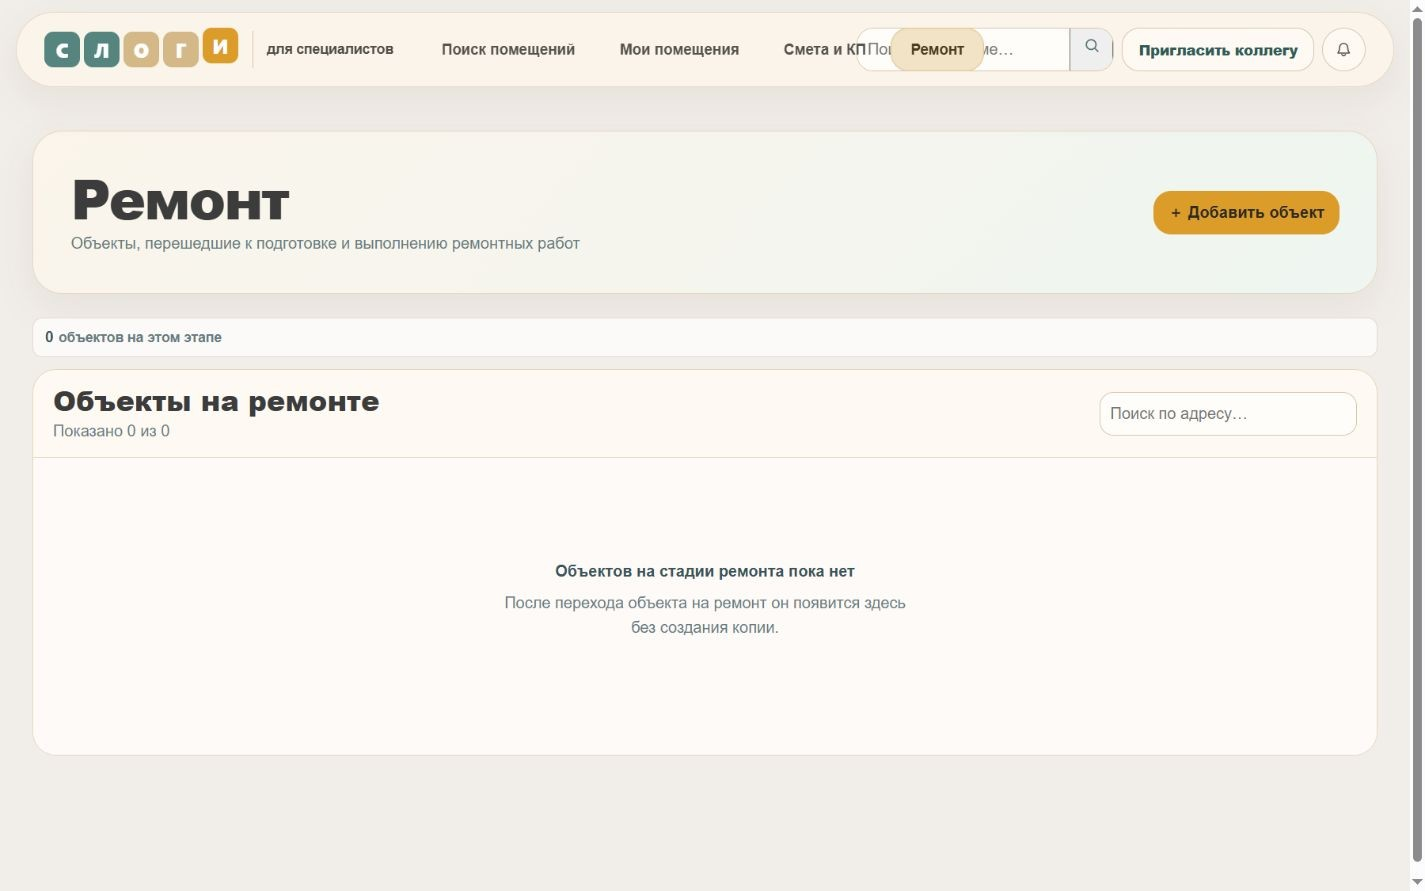
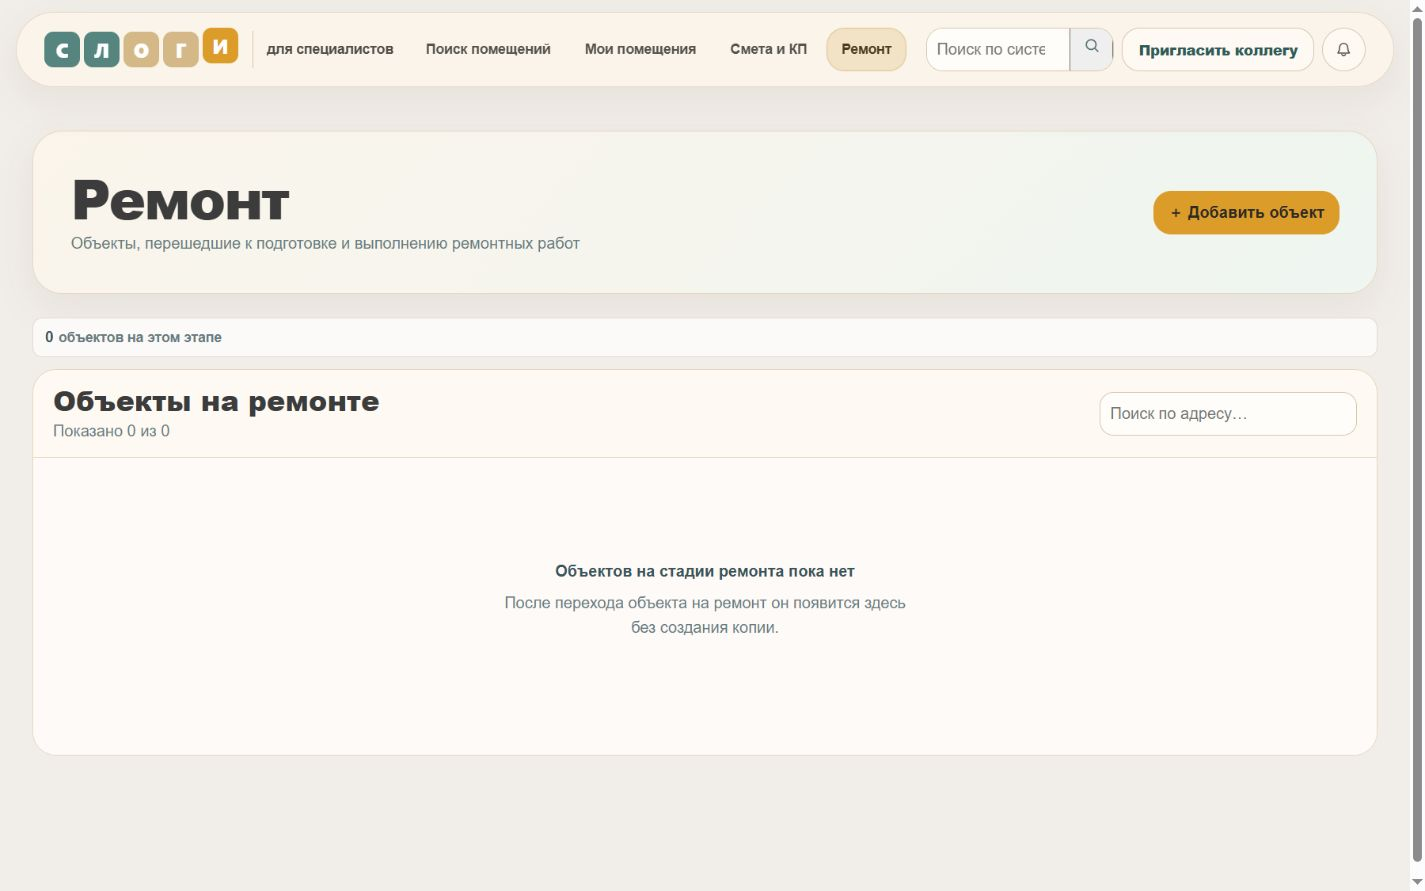
fix: center shared header navigation

Changed region(s): [[0.3088, 0.0303, 0.7411, 0.0909]]

diff --git a/proposal.html b/proposal.html
@@ -1,6 +1,6 @@
 <!DOCTYPE html>
 <html lang="ru"><head><meta charset="utf-8"/><meta content="width=device-width,initial-scale=1" name="viewport"/><meta content="no-cache,no-store,must-revalidate" http-equiv="Cache-Control"/><title>СЛОГИ — Объект · Коммерческое предложение</title><link href="favicon.svg?v=31" rel="icon"/><link href="professional-ui.css?v=31" rel="stylesheet"/><link href="app-shell.css?v=50" rel="stylesheet"/>
-  <link href="layout-v76-1-1.css?v=7611" rel="stylesheet"/><link href="workflow-pages.css?v=31" rel="stylesheet"/><link href="objects-visual-standard.css?v=33" rel="stylesheet"/><link href="layout-fixed-header.css?v=33" rel="stylesheet"/><link href="schoolslogi-theme-v76-1-5.css?v=7615" rel="stylesheet"/></head><body>
+  <link href="layout-v76-1-1.css?v=7611" rel="stylesheet"/><link href="workflow-pages.css?v=31" rel="stylesheet"/><link href="objects-visual-standard.css?v=33" rel="stylesheet"/><link href="layout-fixed-header.css?v=33" rel="stylesheet"/><link href="schoolslogi-theme-v76-1-5.css?v=76152" rel="stylesheet"/></head><body>
 <header class="site-header"><div class="top"><div class="brand"><a class="logo-link" href="index.html"><div class="logo-word"><span>С</span><span>Л</span><span>О</span><span>Г</span><span>И</span></div></a><div class="title-wrap"><h1>Объект · Коммерческое предложение</h1><div class="subtitle">Редактирование и выгрузка по фирменному шаблону</div></div></div></div></header>
 <main class="workflow-main"><div class="workflow-hero"><div><h2>Редактор коммерческого предложения</h2><p>Данные объекта и сроки подставляются автоматически. Любой текст в двухстраничном документе можно изменить непосредственно в предпросмотре.</p></div><div class="flow-steps"><span class="flow-step done">1 · Спецификация</span><span class="flow-arrow">→</span><span class="flow-step done">2 · Смета</span><span class="flow-arrow">→</span><span class="flow-step active">3 · КП</span></div></div>
 <section class="object-strip" id="object-strip"></section><div class="notice bad" hidden="" id="outdated-banner">После формирования КП смета была изменена. Обновите документ из актуальных данных объекта.</div><div style="height:15px"></div>

diff --git a/specification.html b/specification.html
@@ -1,6 +1,6 @@
 <!DOCTYPE html>
 <html lang="ru"><head><meta charset="utf-8"/><meta content="width=device-width,initial-scale=1" name="viewport"/><meta content="no-cache,no-store,must-revalidate" http-equiv="Cache-Control"/><title>СЛОГИ — Объект · Смета</title><link href="favicon.svg?v=31" rel="icon"/><link href="professional-ui.css?v=31" rel="stylesheet"/><link href="app-shell.css?v=50" rel="stylesheet"/>
-  <link href="layout-v76-1-1.css?v=7611" rel="stylesheet"/><link href="workflow-pages.css?v=31" rel="stylesheet"/><link href="objects-visual-standard.css?v=33" rel="stylesheet"/><link href="layout-fixed-header.css?v=33" rel="stylesheet"/><link href="schoolslogi-theme-v76-1-5.css?v=7615" rel="stylesheet"/></head><body>
+  <link href="layout-v76-1-1.css?v=7611" rel="stylesheet"/><link href="workflow-pages.css?v=31" rel="stylesheet"/><link href="objects-visual-standard.css?v=33" rel="stylesheet"/><link href="layout-fixed-header.css?v=33" rel="stylesheet"/><link href="schoolslogi-theme-v76-1-5.css?v=76152" rel="stylesheet"/></head><body>
 <header class="site-header"><div class="top"><div class="brand"><a class="logo-link" href="index.html"><div class="logo-word"><span>С</span><span>Л</span><span>О</span><span>Г</span><span>И</span></div></a><div class="title-wrap"><h1>Объект · Смета</h1><div class="subtitle">Расчёт по подтверждённой спецификации</div></div></div></div></header>
 <main class="workflow-main"><div class="workflow-hero"><div><h2>Редактор сметы</h2><p>Смета формируется из сохранённой спецификации. Все позиции, цены, количества и итоговые суммы можно изменить.</p></div><div class="flow-steps"><span class="flow-step done">1 · Спецификация</span><span class="flow-arrow">→</span><span class="flow-step active">2 · Смета</span><span class="flow-arrow">→</span><span class="flow-step">3 · КП</span></div></div>
 <section class="object-strip" id="object-strip"></section><div class="notice bad" hidden="" id="outdated-banner">Спецификация была изменена после создания этой сметы. Нажмите «Обновить из спецификации», чтобы использовать актуальные позиции.</div><div style="height:15px"></div>

diff --git a/schoolslogi-theme-v76-1-5.css b/schoolslogi-theme-v76-1-5.css
@@ -74,7 +74,7 @@ body.slogi-search-page>.site-header,
   min-height:100%!important;
   max-height:100%!important;
   align-items:center!important;
-  gap:clamp(16px,2vw,30px)!important;
+  gap:clamp(12px,1.25vw,18px)!important;
   padding:0 clamp(16px,2vw,28px)!important;
 }
 .site-header .brand{
@@ -134,7 +134,8 @@ body.slogi-search-page>.site-header,
   box-shadow:none!important;
 }
 .site-header .pro-nav-inner,
-.slogi-search-page .site-header .pro-nav .pro-nav-inner{
+.slogi-search-page .site-header .pro-nav .pro-nav-inner,
+.slogi-search-page .site-header .top>.pro-nav .pro-nav-inner{
   display:flex!important;
   width:100%!important;
   height:100%!important;
@@ -143,7 +144,17 @@ body.slogi-search-page>.site-header,
   padding:0!important;
   overflow:visible!important;
 }
-.pro-product-nav{display:flex!important;align-items:center!important;gap:5px!important}
+.site-header .pro-product-nav,
+.slogi-search-page .site-header .pro-product-nav{
+  display:flex!important;
+  height:100%!important;
+  min-height:0!important;
+  align-items:center!important;
+  align-self:center!important;
+  gap:5px!important;
+  margin:0!important;
+  transform:none!important;
+}
 .site-header .pro-product-nav a,
 .slogi-search-page .site-header .pro-product-nav a{
   display:inline-flex!important;
@@ -151,12 +162,12 @@ body.slogi-search-page>.site-header,
   height:44px!important;
   align-items:center!important;
   justify-content:center!important;
-  padding:0 clamp(12px,1.35vw,20px)!important;
+  padding:0 clamp(10px,1vw,14px)!important;
   border:1px solid transparent!important;
   border-radius:18px!important;
   background:transparent!important;
   color:#57534e!important;
-  font-size:15px!important;
+  font-size:14px!important;
   font-weight:750!important;
   line-height:1.15!important;
   text-decoration:none!important;
@@ -186,9 +197,11 @@ body.slogi-search-page>.site-header,
 }
 .pro-header-utilities .pro-global-search-wrap{
   display:flex!important;
+  flex:0 1 190px!important;
+  width:190px!important;
   height:44px!important;
-  min-width:190px!important;
-  max-width:270px!important;
+  min-width:180px!important;
+  max-width:190px!important;
   border:1px solid #d8c7af!important;
   border-radius:17px!important;
   background:#fffaf3!important;

diff --git a/source-specification.html b/source-specification.html
@@ -1,6 +1,6 @@
 <!DOCTYPE html>
 <html lang="ru"><head><meta charset="utf-8"/><meta content="width=device-width,initial-scale=1" name="viewport"/><meta content="no-cache,no-store,must-revalidate" http-equiv="Cache-Control"/><title>СЛОГИ — Объект · Расчётная спецификация</title><link href="favicon.svg?v=31" rel="icon"/><link href="professional-ui.css?v=31" rel="stylesheet"/><link href="app-shell.css?v=50" rel="stylesheet"/>
-  <link href="layout-v76-1-1.css?v=7611" rel="stylesheet"/><link href="workflow-pages.css?v=31" rel="stylesheet"/><link href="objects-visual-standard.css?v=33" rel="stylesheet"/><link href="layout-fixed-header.css?v=33" rel="stylesheet"/><link href="schoolslogi-theme-v76-1-5.css?v=7615" rel="stylesheet"/></head><body>
+  <link href="layout-v76-1-1.css?v=7611" rel="stylesheet"/><link href="workflow-pages.css?v=31" rel="stylesheet"/><link href="objects-visual-standard.css?v=33" rel="stylesheet"/><link href="layout-fixed-header.css?v=33" rel="stylesheet"/><link href="schoolslogi-theme-v76-1-5.css?v=76152" rel="stylesheet"/></head><body>
 <header class="site-header"><div class="top"><div class="brand"><a class="logo-link" href="index.html"><div class="logo-word"><span>С</span><span>Л</span><span>О</span><span>Г</span><span>И</span></div></a><div class="title-wrap"><h1>Объект · Расчётная спецификация</h1><div class="subtitle">Исходные позиции для точной сметы</div></div></div></div></header>
 <main class="workflow-main"><div class="workflow-hero"><div><h2>Редактор расчётной спецификации</h2><p>Исходный Excel сохраняется без изменений. Распознанные позиции можно проверить, исправить и скачать отдельным редактируемым файлом.</p></div><div class="flow-steps"><span class="flow-step active">1 · Расчётная спецификация</span><span class="flow-arrow">→</span><span class="flow-step">2 · Смета</span><span class="flow-arrow">→</span><span class="flow-step">3 · КП</span></div></div>
 <section class="object-strip" id="object-strip"></section>

diff --git a/passport.html b/passport.html
@@ -12,7 +12,7 @@
   <link href="layout-v76-1-1.css?v=7611" rel="stylesheet"/>
 <link href="workflow-pages.css?v=31" rel="stylesheet"/>
 <link href="passport-v4.css?v=7615" rel="stylesheet"/>
-<link href="objects-visual-standard.css?v=33" rel="stylesheet"/><link href="layout-fixed-header.css?v=33" rel="stylesheet"/><link href="schoolslogi-theme-v76-1-5.css?v=7615" rel="stylesheet"/></head>
+<link href="objects-visual-standard.css?v=33" rel="stylesheet"/><link href="layout-fixed-header.css?v=33" rel="stylesheet"/><link href="schoolslogi-theme-v76-1-5.css?v=76152" rel="stylesheet"/></head>
 <body>
 <header class="site-header"><div class="top"><div class="brand"><a class="logo-link" href="index.html"><div class="logo-word"><span>С</span><span>Л</span><span>О</span><span>Г</span><span>И</span></div></a><div class="title-wrap"><h1>Рабочее пространство объекта</h1><div class="subtitle">Обзор, этапы, документы, сроки и финансы</div></div></div></div></header>
 <main class="passport-main">

diff --git a/workspace.html b/workspace.html
@@ -12,7 +12,7 @@
   <link href="objects-visual-standard.css?v=33" rel="stylesheet"/>
   <link href="layout-fixed-header.css?v=33" rel="stylesheet"/>
   <link href="stage-workspace.css?v=48" rel="stylesheet"/>
-<link href="schoolslogi-theme-v76-1-5.css?v=7615" rel="stylesheet"/></head>
+<link href="schoolslogi-theme-v76-1-5.css?v=76152" rel="stylesheet"/></head>
 <body>
 <header class="site-header"><div class="top"><div class="brand"><a class="logo-link" href="index.html" aria-label="СЛОГИ — главная"><div class="logo-word" aria-hidden="true"><span>С</span><span>Л</span><span>О</span><span>Г</span><span>И</span></div></a></div></div></header>
 <main class="stage-main" id="stage-main">

diff --git a/available-spaces.html b/available-spaces.html
@@ -12,7 +12,7 @@
   <link href="objects-visual-standard.css?v=33" rel="stylesheet"/>
   <link href="phase0.css?v=68" rel="stylesheet"/>
   <link href="cian-workspace.css?v=761" rel="stylesheet"/>
-<link href="schoolslogi-theme-v76-1-5.css?v=7615" rel="stylesheet"/></head>
+<link href="schoolslogi-theme-v76-1-5.css?v=76152" rel="stylesheet"/></head>
 <body class="slogi-search-page available-spaces-page">
 <header class="site-header"><div class="top"><div class="brand"><a class="logo-link" href="index.html" aria-label="СЛОГИ — главная"><div class="logo-word" aria-hidden="true"><span>С</span><span>Л</span><span>О</span><span>Г</span><span>И</span></div></a></div></div></header>
 

diff --git a/settings.html b/settings.html
@@ -11,7 +11,7 @@
 <link href="professional-ui.css?v=31" rel="stylesheet"/>
 <link href="app-shell.css?v=50" rel="stylesheet"/>
   <link href="layout-v76-1-1.css?v=7611" rel="stylesheet"/>
-<link href="objects-visual-standard.css?v=33" rel="stylesheet"/><link href="layout-fixed-header.css?v=33" rel="stylesheet"/><link href="schoolslogi-theme-v76-1-5.css?v=7615" rel="stylesheet"/></head>
+<link href="objects-visual-standard.css?v=33" rel="stylesheet"/><link href="layout-fixed-header.css?v=33" rel="stylesheet"/><link href="schoolslogi-theme-v76-1-5.css?v=76152" rel="stylesheet"/></head>
 <body class="professional-page">
 <header class="site-header">
 <div class="top">

diff --git a/team.html b/team.html
@@ -11,7 +11,7 @@
 <link href="professional-ui.css?v=31" rel="stylesheet"/>
 <link href="app-shell.css?v=50" rel="stylesheet"/>
   <link href="layout-v76-1-1.css?v=7611" rel="stylesheet"/>
-<link href="objects-visual-standard.css?v=33" rel="stylesheet"/><link href="layout-fixed-header.css?v=33" rel="stylesheet"/><link href="schoolslogi-theme-v76-1-5.css?v=7615" rel="stylesheet"/></head>
+<link href="objects-visual-standard.css?v=33" rel="stylesheet"/><link href="layout-fixed-header.css?v=33" rel="stylesheet"/><link href="schoolslogi-theme-v76-1-5.css?v=76152" rel="stylesheet"/></head>
 <body class="professional-page">
 <header class="site-header">
 <div class="top">

diff --git a/index.html b/index.html
@@ -11,7 +11,7 @@
   <link href="layout-v76-1-1.css?v=7611" rel="stylesheet"/>
   <link href="objects-visual-standard.css?v=33" rel="stylesheet"/>
   <link href="phase0.css?v=68" rel="stylesheet"/>
-<link href="schoolslogi-theme-v76-1-5.css?v=7615" rel="stylesheet"/></head>
+<link href="schoolslogi-theme-v76-1-5.css?v=76152" rel="stylesheet"/></head>
 <body class="slogi-search-page">
 <header class="site-header">
   <div class="top">

diff --git a/docs/design-v76-1-5/README.md b/docs/design-v76-1-5/README.md
@@ -23,6 +23,8 @@
 | 768×1024 | PASS | 0 | PASS | 0 | 0 |
 | 390×844 | PASS | 0 | PASS | 0 | 0 |
 
+На desktop центр каждого пункта продуктовой навигации совпадает с вертикальным центром общей шапки (максимальное отклонение `0 px`); поле поиска и служебные действия не перекрывают названия разделов.
+
 Мобильное меню дополнительно проверено на открытие, четыре продуктовых ссылки, высоту ссылок 48 px, закрытие по Escape и возврат фокуса на кнопку меню.
 
 Invite-action встроен в утилиты шапки на desktop и в мобильное меню на узких экранах. Это сохраняет v76.1.5 invite flow и исключает наложение на фильтры и плавающую кнопку добавления объекта.
